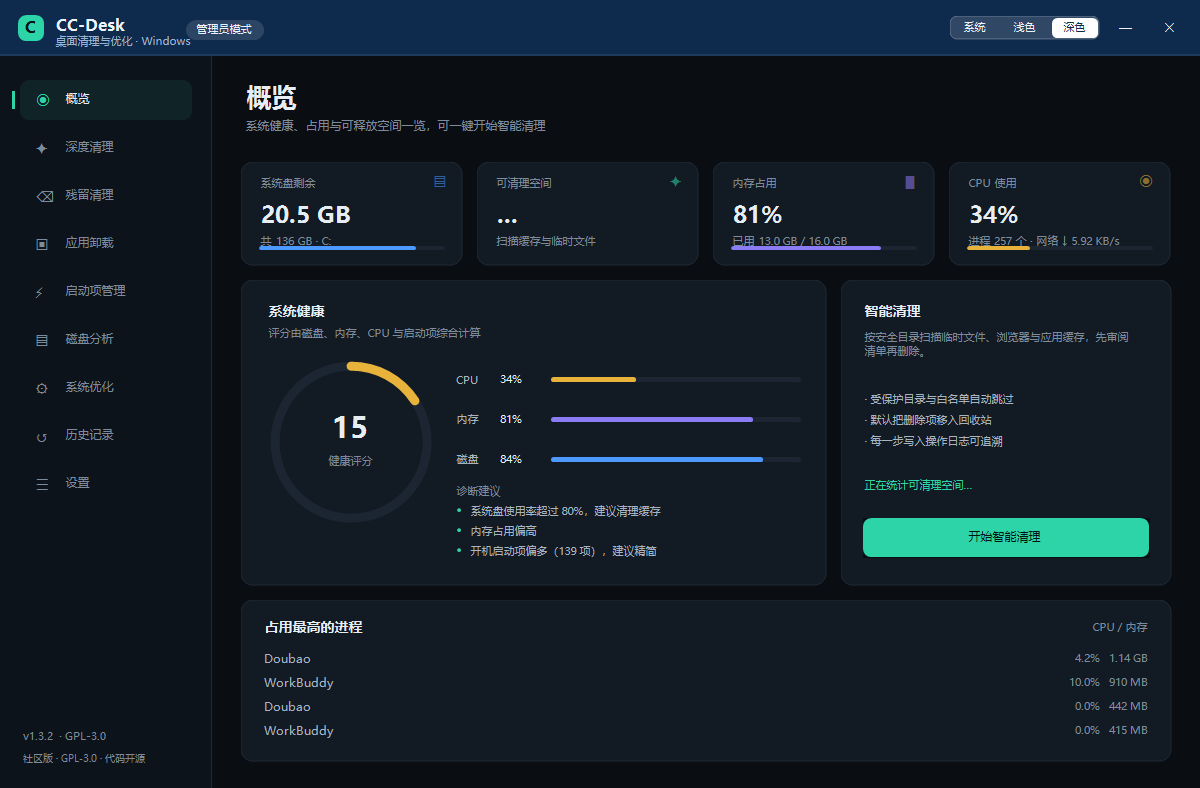
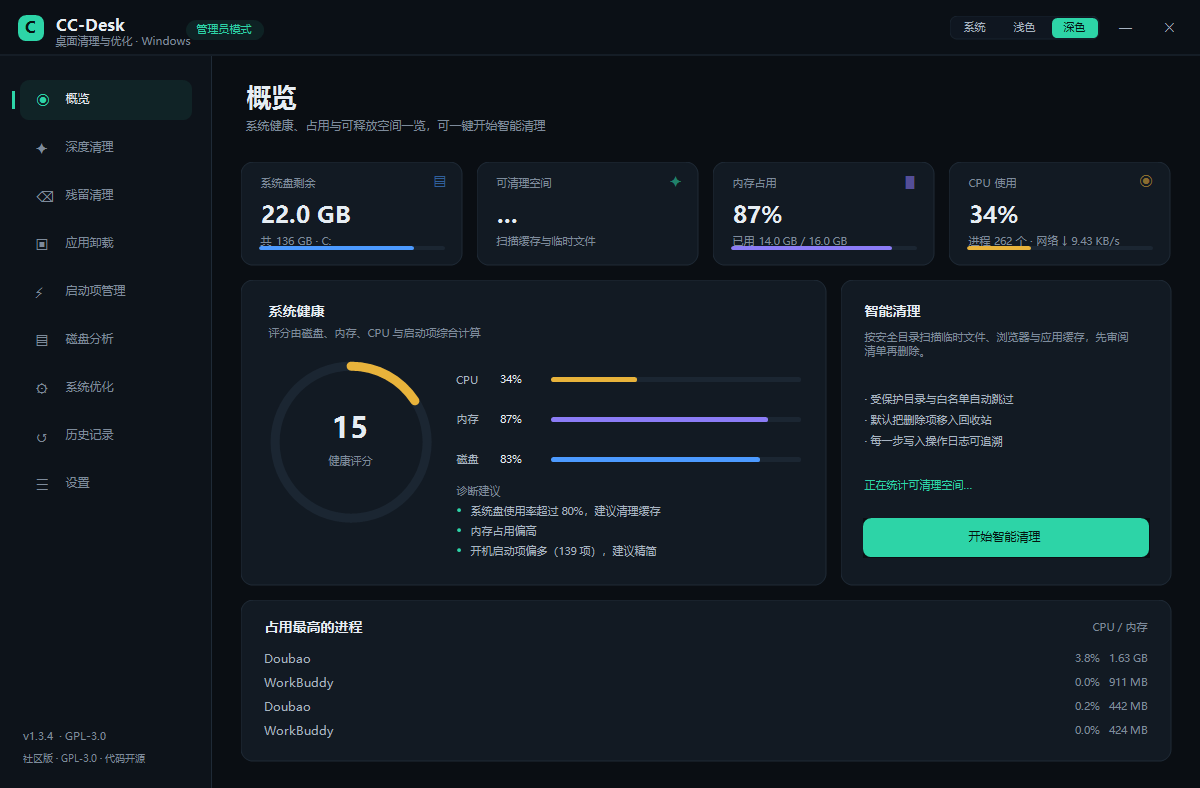
v1.3.4: 三档主题拆成四套外观，浅色恢复白顶栏，系统档用蓝顶栏，避免系统与浅色看起来一样

Changed region(s): [[0.0, 0.0, 1.0, 0.0914], [0.2158, 0.2437, 0.2775, 0.2741]]

diff --git a/src/MainForm.cs b/src/MainForm.cs
@@ -151,8 +151,7 @@ namespace CCDesk
         private void SetThemeMode(string mode)
         {
             _themeMode = mode;
-            bool light = mode == "light" || (mode == "system" && Theme.SystemLight());
-            Theme.Apply(light);
+            Theme.ApplyMode(mode, Theme.SystemLight());
             Settings st = Settings.Load();
             st.ThemeMode = mode;
             st.Save();
@@ -169,17 +168,28 @@ namespace CCDesk
             {
                 if (_themeMode != "system") return;
                 bool light = Theme.SystemLight();
-                if (light == Theme.IsLight) return;
-                Theme.Apply(light);
+                Theme.Skin skin = light ? Theme.Skin.SystemLight : Theme.Skin.SystemDark;
+                if (Theme.IsLight == light && Theme.TitleOnBlue) return;
+                Theme.ApplySkin(skin);
                 ApplyTheme();
             };
             _sysWatch.Start();
+        }
+
+        /// <summary>仅供截图/诊断：让顶栏分段按钮与当前模式一致，不写入配置。</summary>
+        public void SyncThemeVisualMode(string mode)
+        {
+            if (_themeSeg == null) return;
+            _themeMode = mode;
+            _themeSeg.Mode = mode;
+            _themeSeg.Invalidate();
         }
 
         /// <summary>仅供截图/诊断：让顶栏分段按钮与当前配色一致，不写入配置。</summary>
         public void SyncThemeVisual(bool light)
         {
             if (_themeSeg == null) return;
+            Theme.Apply(light);
             _themeMode = light ? "light" : "dark";
             _themeSeg.Mode = _themeMode;
             _themeSeg.Invalidate();
@@ -209,7 +219,7 @@ namespace CCDesk
             {
                 g.FillRectangle(b, 0, 0, _title.Width, _title.Height);
             }
-            using (Pen p = new Pen(Theme.Alpha(Theme.TitleText, 38)))
+            using (Pen p = new Pen(Theme.TitleOnBlue ? Theme.Alpha(Theme.TitleText, 38) : Theme.Border))
             {
                 g.DrawLine(p, 0, TitleH - 1, _title.Width, TitleH - 1);
             }
@@ -228,10 +238,10 @@ namespace CCDesk
             Font f = Theme.F(8f);
             int w = (int)g.MeasureString(admin, f).Width + 20;
             Rectangle pill = new Rectangle(186, 20, w, 20);
-            Theme.FillRound(g, pill, 10, Theme.Alpha(Theme.TitleText, 34));
+            Theme.FillRound(g, pill, 10, Theme.TitleOnBlue ? Theme.Alpha(Theme.TitleText, 34) : Theme.Alpha(ac, 24));
             using (StringFormat sf = Theme.SF(StringAlignment.Center, StringAlignment.Center))
             {
-                Theme.Txt(g, admin, f, Theme.TitleText, pill, sf);
+                Theme.Txt(g, admin, f, Theme.TitleOnBlue ? Theme.TitleText : ac, pill, sf);
             }
         }
 
@@ -389,11 +399,13 @@ namespace CCDesk
             if (_hover)
             {
                 Theme.FillRound(e.Graphics, new Rectangle(0, 0, Width - 1, Height - 1), 6,
-                    Danger ? Theme.Alpha(Theme.Danger, 210) : Theme.Alpha(Theme.TitleText, 46));
+                    Danger ? Theme.Alpha(Theme.Danger, 210)
+                    : (Theme.TitleOnBlue ? Theme.Alpha(Theme.TitleText, 46) : Theme.CardHover));
             }
             using (StringFormat sf = Theme.SF(StringAlignment.Center, StringAlignment.Center))
             {
-                Color fg = Danger && _hover ? Color.White : Theme.TitleText;
+                Color fg = Theme.TitleOnBlue ? Theme.TitleText : (_hover && Danger ? Theme.Danger : Theme.TextDim);
+                if (Danger && _hover && Theme.TitleOnBlue) fg = Color.White;
                 Theme.Txt(e.Graphics, Glyph, Theme.F(9f), fg, new Rectangle(0, 0, Width, Height), sf);
             }
         }

diff --git a/src/Theme.cs b/src/Theme.cs
@@ -41,8 +41,13 @@ namespace CCDesk
         public static Color CheckBg;
         public static Color CheckMark;
 
-        /// <summary>当前是否为浅色主题。</summary>
+        /// <summary>当前是否为浅色外观。</summary>
         public static bool IsLight { get; private set; }
+
+        /// <summary>顶栏是否为蓝底（“系统”两档用白字，“浅色/深色”用深色字）。</summary>
+        public static bool TitleOnBlue { get; private set; }
+
+        public enum Skin { Light, Dark, SystemLight, SystemDark }
 
         static Theme()
         {
@@ -52,14 +57,47 @@ namespace CCDesk
         /// <summary>切换配色：深色（默认）或浅色。</summary>
         public static void Apply(bool light)
         {
+            ApplySkin(light ? Skin.Light : Skin.Dark);
+        }
+
+        /// <summary>按三档模式配色：light / dark / system（system 再按 Windows 深浅色二选一）。</summary>
+        public static void ApplyMode(string mode, bool systemLight)
+        {
+            if (mode == "light") ApplySkin(Skin.Light);
+            else if (mode == "dark") ApplySkin(Skin.Dark);
+            else ApplySkin(systemLight ? Skin.SystemLight : Skin.SystemDark);
+        }
+
+        /// <summary>四套皮肤：浅色（白顶栏）、深色（近黑顶栏）、系统浅色/系统深色（蓝顶栏）。</summary>
+        public static void ApplySkin(Skin skin)
+        {
+            bool light = skin == Skin.Light || skin == Skin.SystemLight;
             IsLight = light;
+            Base(light);
+            if (skin == Skin.Light)
+            {
+                TitleBg = C("#F7F9FC"); TitleText = Text; TitleDim = Muted; TitleOnBlue = false;
+            }
+            else if (skin == Skin.Dark)
+            {
+                TitleBg = C("#0B1016"); TitleText = Text; TitleDim = Muted; TitleOnBlue = false;
+            }
+            else if (skin == Skin.SystemLight)
+            {
+                TitleBg = C("#1D5FC4"); TitleText = C("#FFFFFF"); TitleDim = C("#C7D9F2"); TitleOnBlue = true;
+            }
+            else
+            {
+                TitleBg = C("#0E2A4D"); TitleText = C("#EDF4FF"); TitleDim = C("#9CB6D8"); TitleOnBlue = true;
+            }
+        }
+
+        private static void Base(bool light)
+        {
             if (!light)
             {
                 Bg = C("#0A0E13");
                 SidebarBg = C("#0D131A");
-                TitleBg = C("#0E2A4D");
-                TitleText = C("#EDF4FF");
-                TitleDim = C("#9CB6D8");
                 Card = C("#121A23");
                 CardHover = C("#18222D");
                 CardSoft = C("#0F1620");
@@ -89,9 +127,6 @@ namespace CCDesk
             {
                 Bg = C("#ECEFF4");
                 SidebarBg = C("#CBD7E4");
-                TitleBg = C("#1D5FC4");
-                TitleText = C("#FFFFFF");
-                TitleDim = C("#C7D9F2");
                 Card = C("#FFFFFF");
                 CardHover = C("#F4F7FB");
                 CardSoft = C("#F1F4F9");

diff --git a/src/Program.cs b/src/Program.cs
@@ -7,7 +7,7 @@ namespace CCDesk
 {
     public static class Program
     {
-        public static string Version = "1.3.3";
+        public static string Version = "1.3.4";
 
         [STAThread]
         public static void Main(string[] args)
@@ -17,8 +17,7 @@ namespace CCDesk
             Application.AddMessageFilter(new WheelRouter());
 
             Core.Settings startSettings = Core.Settings.Load();
-            Theme.Apply(startSettings.ThemeMode == "light" ||
-                        (startSettings.ThemeMode == "system" && Theme.SystemLight()));
+            Theme.ApplyMode(startSettings.ThemeMode, Theme.SystemLight());
 
             if (args.Length >= 1 && args[0] == "--selftest")
             {
@@ -242,9 +241,14 @@ namespace CCDesk
             {
                 int page = 0;
                 if (args.Length >= 3) int.TryParse(args[2], out page);
-                for (int i = 0; i < args.Length; i++) { if (args[i] == "light") Theme.Apply(true); if (args[i] == "dark") Theme.Apply(false); }
+                string themeMode = "";
+                for (int i = 0; i < args.Length; i++)
+                {
+                    if (args[i] == "light" || args[i] == "dark" || args[i] == "system") themeMode = args[i];
+                }
+                if (themeMode.Length > 0) Theme.ApplyMode(themeMode, Theme.SystemLight());
                 MainForm f = new MainForm();
-                f.SyncThemeVisual(Theme.IsLight);
+                if (themeMode.Length > 0) f.SyncThemeVisualMode(themeMode);
                 f.StartPosition = FormStartPosition.Manual;
                 f.Location = new Point(-4000, 0);
                 f.ShowInTaskbar = false;
@@ -253,7 +257,7 @@ namespace CCDesk
                 Application.DoEvents();
                 for (int i = 0; i < args.Length; i++)
                 {
-                    if (args[i] == "toggle") { Theme.Apply(true); f.ApplyTheme(); }
+                    if (args[i] == "toggle") { Theme.ApplySkin(Theme.Skin.SystemLight); f.ApplyTheme(); }
                 }
                 Application.DoEvents();
                 int waitMs = 600;

diff --git a/src/Controls.cs b/src/Controls.cs
@@ -777,18 +777,22 @@ namespace CCDesk
             {
                 g.FillRectangle(b, ClientRectangle);
             }
-            Theme.FillRound(g, new Rectangle(0, 0, Width - 1, Height - 1), 7, Theme.Alpha(Color.White, 36));
-            Theme.StrokeRound(g, new Rectangle(0, 0, Width - 1, Height - 1), 7, Theme.Alpha(Color.White, 70), 1);
+            bool onBlue = Theme.TitleOnBlue;
+            Theme.FillRound(g, new Rectangle(0, 0, Width - 1, Height - 1), 7, onBlue ? Theme.Alpha(Color.White, 36) : Theme.CardSoft);
+            Theme.StrokeRound(g, new Rectangle(0, 0, Width - 1, Height - 1), 7, onBlue ? Theme.Alpha(Color.White, 70) : Theme.BorderSoft, 1);
             int w = Width / 3;
             int act = ActiveIndex();
             for (int i = 0; i < 3; i++)
             {
                 Rectangle seg = new Rectangle(i * w + 2, 2, w - 4, Height - 4);
-                if (i == act) Theme.FillRound(g, seg, 5, Color.White);
-                else if (i == _hover) Theme.FillRound(g, seg, 5, Theme.Alpha(Color.White, 34));
+                if (i == act) Theme.FillRound(g, seg, 5, onBlue ? Color.White : Theme.Accent);
+                else if (i == _hover) Theme.FillRound(g, seg, 5, onBlue ? Theme.Alpha(Color.White, 34) : Theme.CardHover);
+                Color fg = i == act
+                    ? (onBlue ? Theme.TitleBg : Theme.AccentFg)
+                    : (onBlue ? Theme.TitleText : Theme.TextDim);
                 using (StringFormat sf = Theme.SF(StringAlignment.Center, StringAlignment.Center))
                 {
-                    Theme.Txt(g, Labels[i], Font, i == act ? Theme.TitleBg : Theme.TitleText, seg, sf);
+                    Theme.Txt(g, Labels[i], Font, fg, seg, sf);
                 }
             }
         }

diff --git a/CHANGES.md b/CHANGES.md
@@ -1,5 +1,14 @@
 # 变更记录
 
+## 1.3.4
+
+- 三档主题改成四套外观，不再出现「系统」和「浅色」长得一样的情况：
+  - 浅色：白色顶栏、深色文字，浅灰蓝侧栏，浅色内容区
+  - 深色：近黑顶栏、浅色文字，深色内容区
+  - 系统（Windows 为浅色）：蓝色顶栏、白字，浅色内容区
+  - 系统（Windows 为深色）：深蓝顶栏、白字，深色内容区
+- 顶栏文字、最小化/关闭按钮、管理员徽标、主题分段按钮都按顶栏底色自动换前景色，白顶栏上不会再出现看不见的白字
+- 截图自检命令 `--shot` 增加 `system` 档，可单独导出「系统」外观
 ## 1.3.3
 
 - 残留清理新增“升级副本目录”判定：同一个软件的正规目录仍在安装时，同级的副本目录（如 `360Safe1`、`xxx1`、`xxx-副本`）会被列为残留，明细里写明“同级的正规目录仍在安装 · 无程序引用”

diff --git a/NOTICE.md b/NOTICE.md
@@ -1,6 +1,6 @@
 CC-Desk · 第三方组件与来源说明
 ================================
-版本：1.3.3
+版本：1.3.4
 许可：GPL-3.0（完整文本见同目录 LICENSE）
 
 1. 许可
